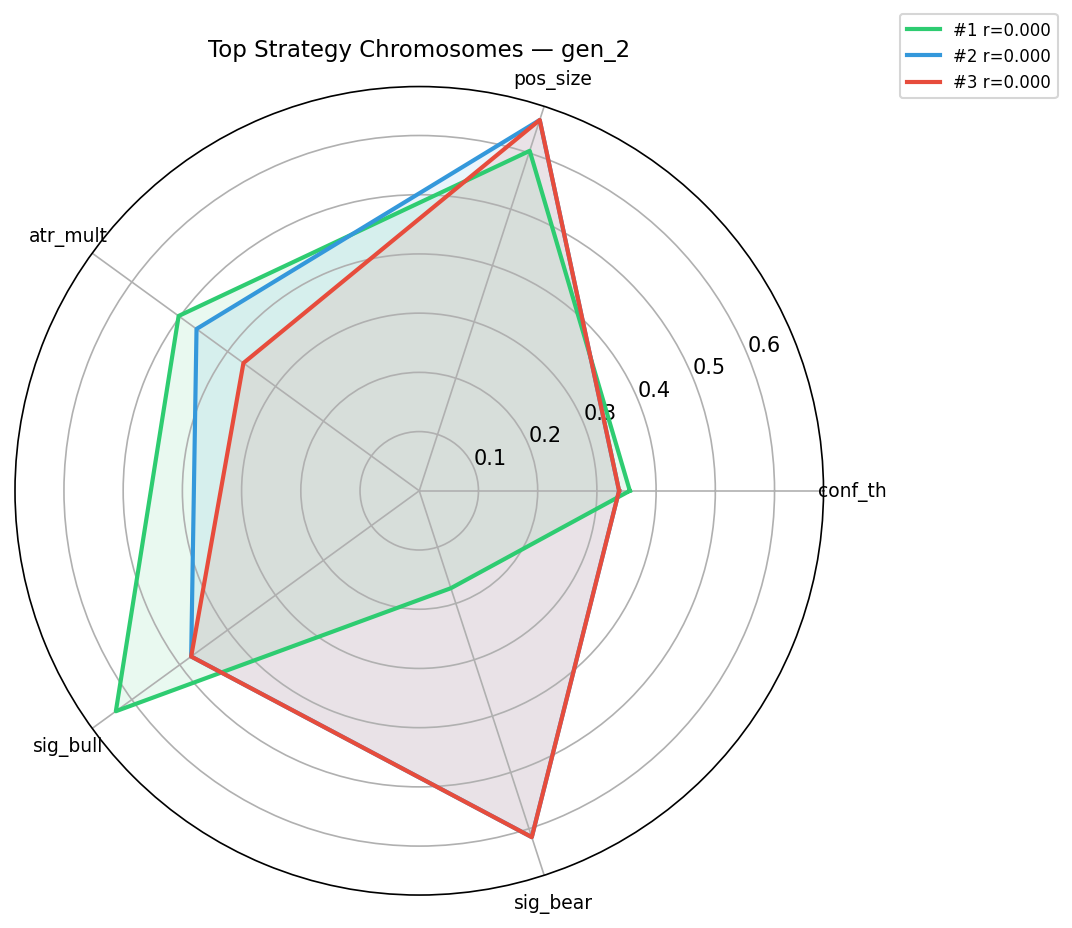
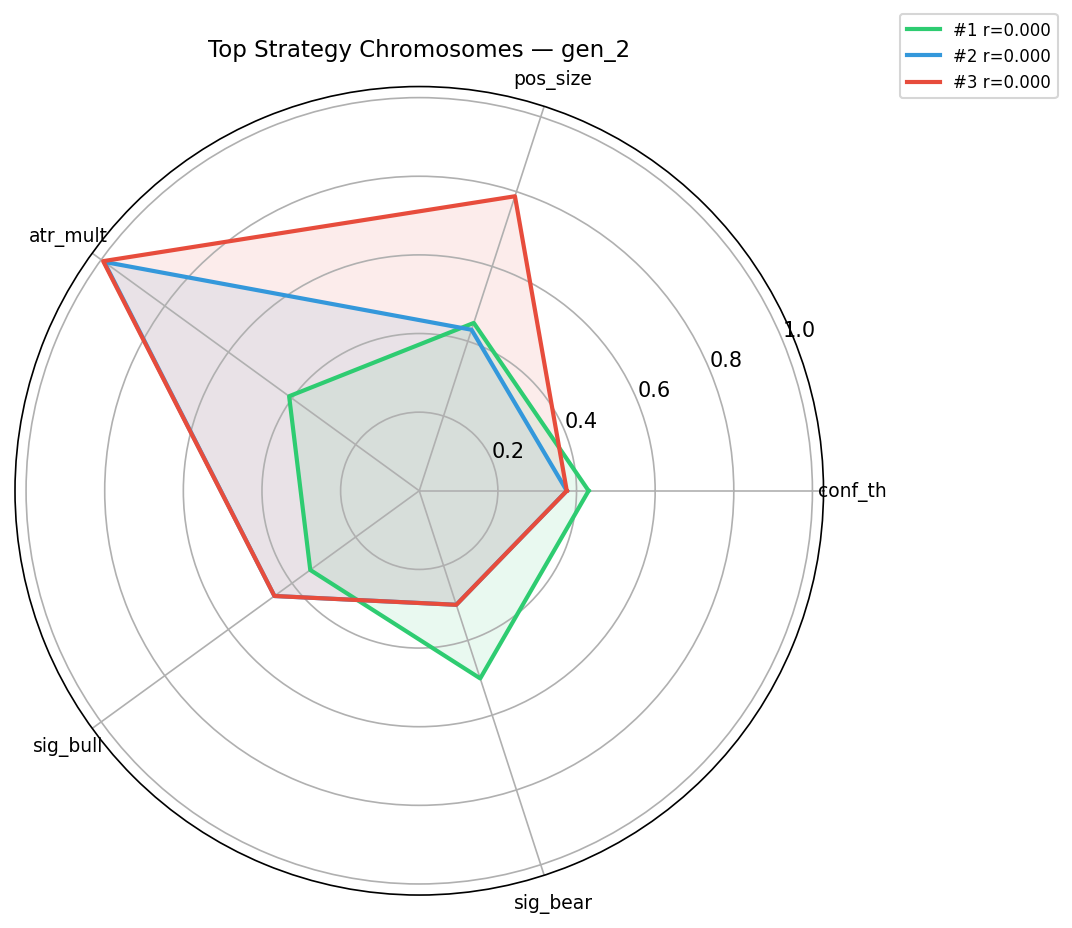
chore: update progress.md + runtime artifacts (history.db, evolution data)

diff --git a/astrofin-sentinel-platform/progress.md b/astrofin-sentinel-platform/progress.md
@@ -1828,3 +1828,24 @@ Logseq/
 ### Environment Health
   - healthcheck: unavailable
 
+
+## 2026-07-22
+
+### Commits
+  - Test commit for progress
+
+### Environment Health
+  - healthcheck: unavailable
+
+## 2026-07-22 (Evening)
+
+### Completed
+  - Sprint 8.1: Paper Trading — PaperBroker + factory + broker wire-up in CouncilOrchestrator
+  - P1-01 regression fix: 40 files with missing logging imports
+  - P0-02 eval() → safe ast evaluator in topology.py
+  - 664 tests green (pre-existing failures: PG sandbox, switch_nodes cache)
+
+### Next
+  - PostgreSQL skipif marks for sandbox failures
+  - Paper Trading go-live (TRADING_MODE=PAPER)
+  - Meta-RL daily calibration pipeline